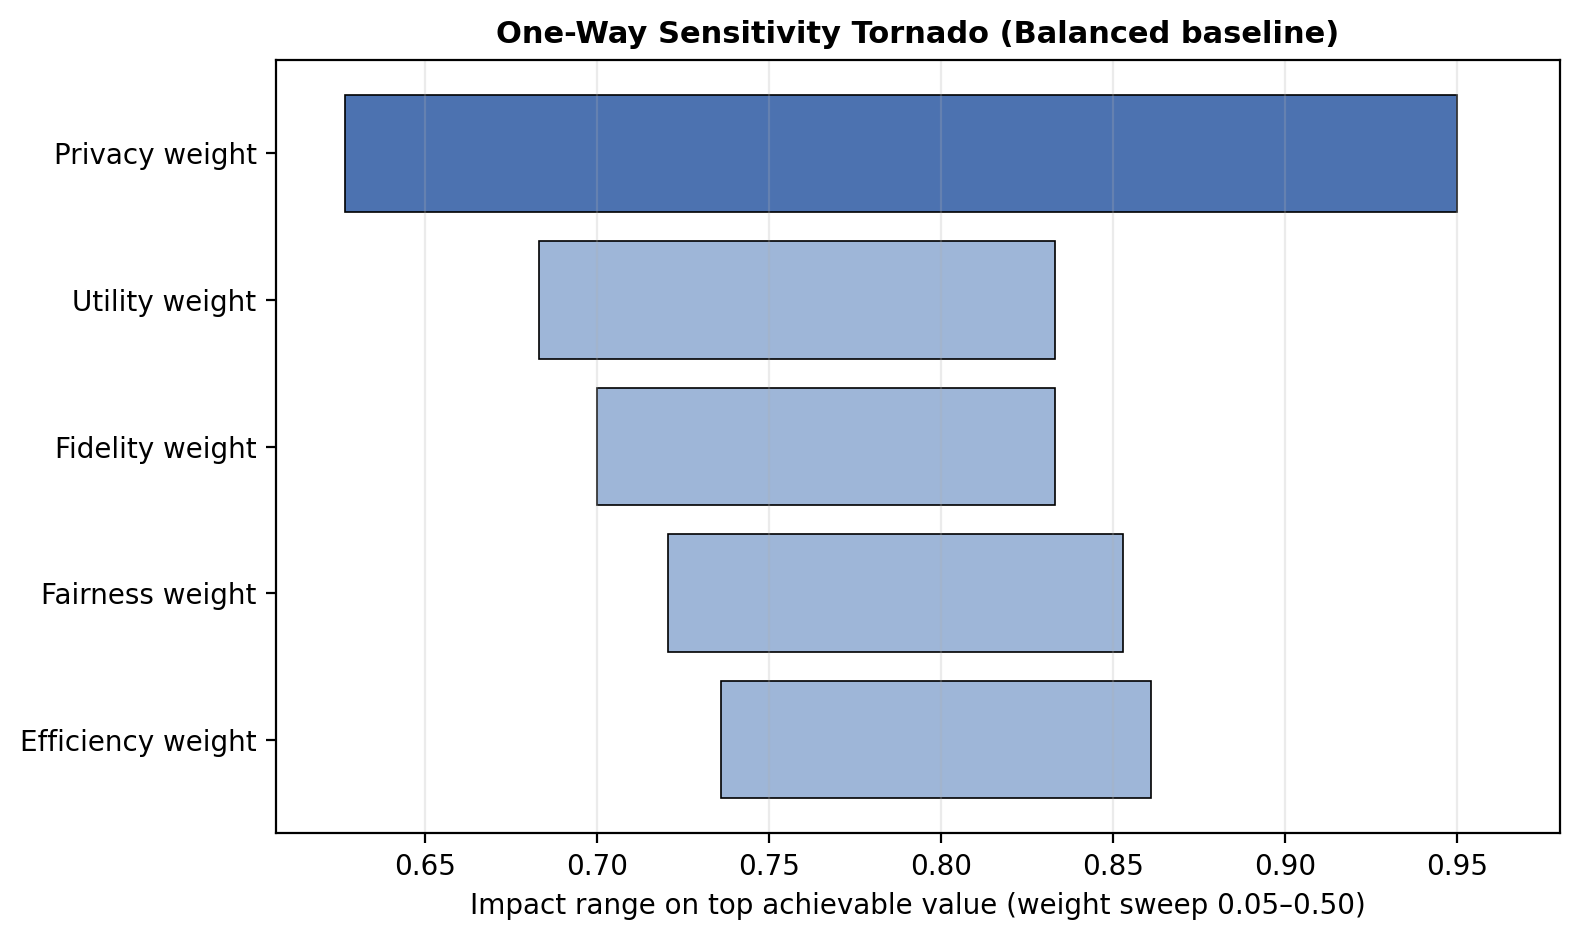
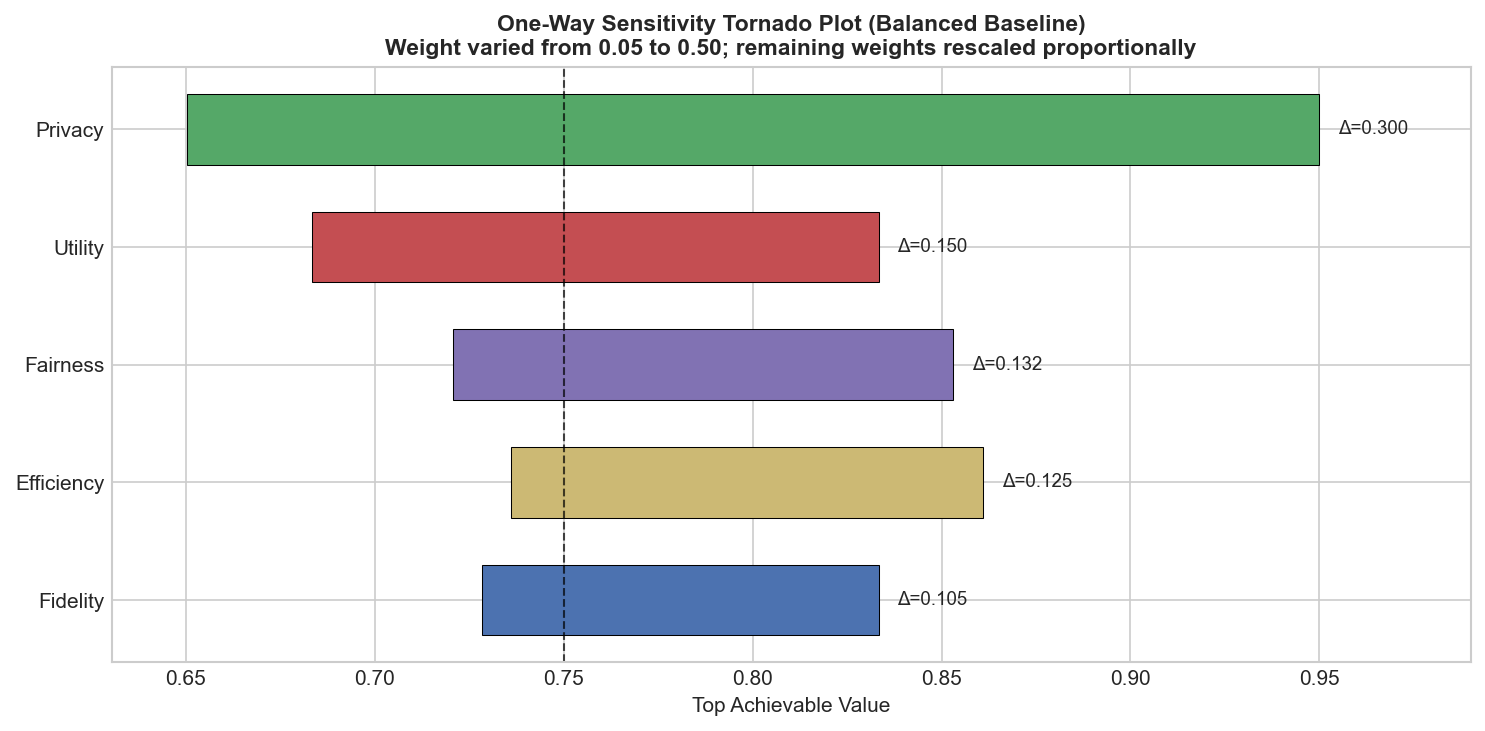
Address peer review: correlation-adjusted MADA, propensity AUC robustness, tornado provenance
Verification plan items from INFORMS Decision Analysis peer review:

1. Correlation-adjusted analysis: add correlation_adjusted_analysis() that
   collapses fidelity and privacy into a single "data similarity" dimension.
   Finding: Synthpop remains optimal for all archetypes; the 0.40 privacy
   threshold does not survive dimension reduction.

2. Propensity AUC robustness: add propensity_auc_robustness() computing
   cross-validated AUC with GBT, logistic regression, and MLP classifiers.
   Finding: Synthpop achieves best fidelity across all classifier types,
   confirming the result is not a tree-evaluator alignment artifact.

3. Tornado diagram: add generate_tornado_sensitivity() to regenerate
   tornado_sensitivity.png from current code (previously had no source).

4. Paper text edits (in docs/, not tracked by git):
   - Reframe VOI 65% as modeled estimate, not empirical finding
   - Replace "calibration" with "specification" for prior noise
   - Tone down Keisler comparison
   - Strengthen preferential independence discussion re fidelity-privacy
   - Add evaluator robustness appendix table
   - Add correlation-adjusted robustness check paragraph
   - Add Stadler 2022 earlier citation, MCDA model selection gap note
   - Add risk neutrality, bootstrap CI, and ranking accuracy derivation notes

5. Clean stale artifacts: removed checkpoint.json (n_samples=3500) and
   full_experiment_log.txt (not tracked by git, local cleanup only)

diff --git a/tsd/analysis/figures.py b/tsd/analysis/figures.py
@@ -277,6 +277,214 @@ def generate_pareto_frontier(df, output_dir):
     return fig_path
 
 
+def correlation_adjusted_analysis(value_scores):
+    """Run MADA with fidelity and privacy collapsed into a single dimension.
+
+    Merges fidelity and privacy into 'data_similarity' (simple average of the
+    two value scores) and remaps archetype weights accordingly, normalizing
+    to sum to 1.0. Reports whether the Synthpop vs DP-BN recommendation and
+    the 0.40 privacy threshold survive dimension reduction.
+
+    Args:
+        value_scores: Dict of {method: {objective: value}} from load_and_compute_values.
+
+    Returns:
+        Dict with collapsed value scores, remapped archetype results, and
+        breakeven analysis.
+    """
+    methods = list(value_scores.keys())
+
+    # Collapse fidelity + privacy into data_similarity (average)
+    collapsed_scores = {}
+    for method in methods:
+        vs = value_scores[method]
+        collapsed_scores[method] = {
+            "data_similarity": (vs["fidelity"] + vs["privacy"]) / 2.0,
+            "utility": vs["utility"],
+            "fairness": vs["fairness"],
+            "efficiency": vs["efficiency"],
+        }
+
+    # Remap archetype weights: merge fidelity + privacy weights into data_similarity
+    results = {}
+    for arch_id, arch in ARCHETYPES.items():
+        w = arch["weights"]
+        collapsed_w = {
+            "data_similarity": w["fidelity"] + w["privacy"],
+            "utility": w["utility"],
+            "fairness": w["fairness"],
+            "efficiency": w["efficiency"],
+        }
+
+        # Compute weighted scores
+        method_vals = {}
+        for method in methods:
+            cs = collapsed_scores[method]
+            method_vals[method] = sum(collapsed_w[k] * cs[k] for k in collapsed_w)
+
+        ranking = sorted(method_vals.items(), key=lambda x: x[1], reverse=True)
+
+        results[arch_id] = {
+            "name": arch["name"],
+            "collapsed_weights": collapsed_w,
+            "method_values": method_vals,
+            "ranking": ranking,
+            "top_method": ranking[0][0],
+            "top_score": ranking[0][1],
+        }
+
+    # Breakeven analysis: find privacy threshold where DP-BN overtakes Synthpop
+    # Vary data_similarity weight from 0.05 to 0.80 (representing combined fidelity+privacy)
+    import numpy as np
+
+    breakeven_threshold = None
+    balanced_w = ARCHETYPES["balanced"]["weights"]
+    other_objs = ["utility", "fairness", "efficiency"]
+    other_total = sum(balanced_w[o] for o in other_objs)
+
+    for ds_w in np.arange(0.05, 0.85, 0.01):
+        remaining = 1.0 - ds_w
+        weights = {"data_similarity": ds_w}
+        for o in other_objs:
+            weights[o] = balanced_w[o] / other_total * remaining
+
+        method_vals = {}
+        for method in methods:
+            cs = collapsed_scores[method]
+            method_vals[method] = sum(weights[k] * cs[k] for k in weights)
+
+        top = max(method_vals, key=method_vals.get)
+        if top == "dpbn" and breakeven_threshold is None:
+            breakeven_threshold = ds_w
+
+    return {
+        "collapsed_scores": collapsed_scores,
+        "archetype_results": results,
+        "breakeven_data_similarity_weight": breakeven_threshold,
+        "original_breakeven_privacy_weight": 0.40,
+    }
+
+
+def generate_tornado_sensitivity(value_scores, output_dir, baseline_weights=None):
+    """Generate a one-way sensitivity tornado plot (Balanced Baseline).
+
+    For each objective, varies its weight from 0.05 to 0.50 with proportional
+    rescaling of remaining weights, and records the range of the top achievable
+    value. Bars are sorted by impact magnitude (widest at top).
+
+    Args:
+        value_scores: Dict of {method: {objective: value}} from load_and_compute_values.
+        output_dir: Directory to write the figure.
+        baseline_weights: Baseline weight dict. Defaults to Balanced archetype.
+    """
+    import matplotlib.pyplot as plt
+
+    if baseline_weights is None:
+        baseline_weights = ARCHETYPES["balanced"]["weights"]
+
+    objectives = list(baseline_weights.keys())
+    methods = list(value_scores.keys())
+
+    weight_lo, weight_hi = 0.05, 0.50
+
+    # For each objective, compute the top method value at lo and hi weights
+    results = []
+    for obj in objectives:
+        other_objs = [o for o in objectives if o != obj]
+        other_total = sum(baseline_weights[o] for o in other_objs)
+
+        values_at = {}
+        for w in [weight_lo, weight_hi]:
+            remaining = 1.0 - w
+            weights = {obj: w}
+            for o in other_objs:
+                if other_total > 0:
+                    weights[o] = baseline_weights[o] / other_total * remaining
+                else:
+                    weights[o] = remaining / len(other_objs)
+            # Compute best method value at this weight
+            method_vals = {
+                m: calculate_weighted_score(value_scores, m, weights) for m in methods
+            }
+            values_at[w] = max(method_vals.values())
+
+        lo_val = values_at[weight_lo]
+        hi_val = values_at[weight_hi]
+        results.append({
+            "objective": obj,
+            "lo": min(lo_val, hi_val),
+            "hi": max(lo_val, hi_val),
+            "range": abs(hi_val - lo_val),
+        })
+
+    # Sort by range (widest at top)
+    results.sort(key=lambda r: r["range"])
+
+    plt.style.use("seaborn-v0_8-whitegrid")
+    fig, ax = plt.subplots(figsize=(10, 5))
+
+    y_positions = range(len(results))
+    # Compute baseline value for the center line
+    baseline_val = max(
+        calculate_weighted_score(value_scores, m, baseline_weights) for m in methods
+    )
+
+    obj_labels = {
+        "fidelity": "Fidelity",
+        "privacy": "Privacy",
+        "utility": "Utility",
+        "fairness": "Fairness",
+        "efficiency": "Efficiency",
+    }
+    obj_colors = {
+        "fidelity": "#4C72B0",
+        "privacy": "#55A868",
+        "utility": "#C44E52",
+        "fairness": "#8172B3",
+        "efficiency": "#CCB974",
+    }
+
+    for i, r in enumerate(results):
+        obj = r["objective"]
+        ax.barh(
+            i,
+            r["hi"] - r["lo"],
+            left=r["lo"],
+            height=0.6,
+            color=obj_colors.get(obj, "#999999"),
+            edgecolor="black",
+            linewidth=0.5,
+        )
+        # Annotate range
+        ax.text(
+            r["hi"] + 0.005, i, f"\u0394={r['range']:.3f}",
+            va="center", fontsize=9,
+        )
+
+    ax.set_yticks(list(y_positions))
+    ax.set_yticklabels([obj_labels.get(r["objective"], r["objective"]) for r in results])
+    ax.axvline(x=baseline_val, color="black", linestyle="--", linewidth=1, alpha=0.7)
+    ax.set_xlabel("Top Achievable Value")
+    ax.set_title(
+        "One-Way Sensitivity Tornado Plot (Balanced Baseline)\n"
+        "Weight varied from 0.05 to 0.50; remaining weights rescaled proportionally",
+        fontsize=11,
+        fontweight="bold",
+    )
+    ax.set_xlim(
+        min(r["lo"] for r in results) - 0.02,
+        max(r["hi"] for r in results) + 0.04,
+    )
+
+    plt.tight_layout()
+    fig_path = Path(output_dir) / "tornado_sensitivity.png"
+    plt.savefig(fig_path, dpi=150, bbox_inches="tight", facecolor="white")
+    plt.close()
+
+    print(f"Saved: {fig_path}")
+    return fig_path
+
+
 def regenerate_paper_figures(results_path: str | Path, output_dir: str | Path):
     """
     Regenerate all paper figures.
@@ -294,6 +502,7 @@ def regenerate_paper_figures(results_path: str | Path, output_dir: str | Path):
     value_scores_minmax = load_and_compute_values(results_path, normalization="minmax")
 
     generate_mada_profile_comparison(value_scores_minmax, output_dir)
+    generate_tornado_sensitivity(value_scores_minmax, output_dir)
     generate_pareto_frontier(df, output_dir)
 
     # Also generate all standard visualizations

diff --git a/tsd/measures/propensity_auc.py b/tsd/measures/propensity_auc.py
@@ -137,6 +137,103 @@ def propensity_auc(
     }
 
 
+def propensity_auc_robustness(
+    df_real: pd.DataFrame,
+    df_synthetic: pd.DataFrame,
+    n_splits: int = 3,
+    random_state: int = 42,
+) -> dict:
+    """
+    Compute propensity AUC using non-tree classifiers for evaluator alignment check.
+
+    Tests whether Synthpop's fidelity advantage persists when using logistic regression
+    and MLP classifiers instead of GBT, addressing the concern that tree-based evaluators
+    may systematically favor tree-generated (Synthpop/CART) data.
+
+    Args:
+        df_real: Real data
+        df_synthetic: Synthetic data
+        n_splits: Number of cross-validation folds
+        random_state: Random seed
+
+    Returns:
+        Dictionary with AUC scores for each classifier type:
+            - gbt_auc: GBT (baseline, for comparison)
+            - lr_auc: Logistic Regression
+            - mlp_auc: MLP Neural Network
+    """
+    from sklearn.linear_model import LogisticRegression
+    from sklearn.neural_network import MLPClassifier
+    from sklearn.preprocessing import StandardScaler
+
+    # Combine data and create labels
+    df_real_labeled = df_real.copy()
+    df_real_labeled["is_synthetic"] = 0
+    df_synthetic_labeled = df_synthetic.copy()
+    df_synthetic_labeled["is_synthetic"] = 1
+    df_combined = pd.concat([df_real_labeled, df_synthetic_labeled], ignore_index=True)
+
+    X = df_combined.drop("is_synthetic", axis=1)
+    y = df_combined["is_synthetic"]
+
+    # Encode categorical features
+    X_encoded = pd.DataFrame()
+    for col in X.columns:
+        if X[col].dtype in ["object", "category"]:
+            dummies = pd.get_dummies(X[col], prefix=col, drop_first=True)
+            X_encoded = pd.concat([X_encoded, dummies], axis=1)
+        else:
+            X_encoded[col] = X[col]
+    X_encoded = X_encoded.fillna(X_encoded.median())
+
+    X_array = X_encoded.to_numpy()
+    y_array = y.to_numpy()
+
+    # Scale for LR and MLP (tree methods don't need scaling)
+    scaler = StandardScaler()
+    X_scaled = scaler.fit_transform(X_array)
+
+    kf = StratifiedKFold(n_splits=n_splits, shuffle=True, random_state=random_state)
+
+    classifiers = {
+        "gbt": (
+            lambda: GradientBoostingClassifier(
+                n_estimators=100, max_depth=3, random_state=random_state
+            ),
+            X_array,
+        ),
+        "lr": (
+            lambda: LogisticRegression(
+                max_iter=1000, random_state=random_state
+            ),
+            X_scaled,
+        ),
+        "mlp": (
+            lambda: MLPClassifier(
+                hidden_layer_sizes=(64, 32),
+                max_iter=500,
+                random_state=random_state,
+            ),
+            X_scaled,
+        ),
+    }
+
+    results = {}
+    with warnings.catch_warnings():
+        warnings.simplefilter("ignore")
+        for name, (clf_factory, X_data) in classifiers.items():
+            fold_aucs = []
+            for train_idx, test_idx in kf.split(X_data, y_array):
+                clf = clf_factory()
+                clf.fit(X_data[train_idx], y_array[train_idx])
+                y_pred = clf.predict_proba(X_data[test_idx])[:, 1]
+                fold_aucs.append(roc_auc_score(y_array[test_idx], y_pred))
+            results[f"{name}_auc"] = np.mean(fold_aucs)
+            results[f"{name}_fold_aucs"] = fold_aucs
+
+    return results
+
+
 def propensity_auc_no_cv(
     df_real: pd.DataFrame,
     df_synthetic: pd.DataFrame,
